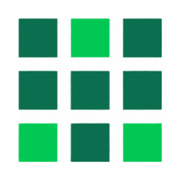
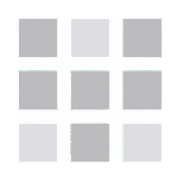
Black and gray redesign

diff --git a/style.css b/style.css
@@ -1,85 +1,319 @@
-:root{--emerald:#0B6E4F;--green:#00C853;--char:#1C1F22;--deep:#121417;--slate:#B8BDC2;--ink:#1C1F22;--muted:#4a5056;--bg-alt:#EEF5F1;--w:#fff}
+:root{
+  --bg:#0A0A0B;
+  --bg-elev:#111214;
+  --bg-card:rgba(255,255,255,0.03);
+  --bg-card-hover:rgba(255,255,255,0.055);
+  --line:rgba(255,255,255,0.10);
+  --line-strong:rgba(255,255,255,0.18);
+  --silver:#C8CDD2;
+  --silver-bright:#E8EBEE;
+  --white:#F5F6F7;
+  --muted:#8A9098;
+  --glow:rgba(232,235,238,0.45);
+  --glow-soft:rgba(232,235,238,0.12);
+}
 *{box-sizing:border-box}
 html{scroll-behavior:smooth}
-body{margin:0;font-family:Inter,Arial,Helvetica,sans-serif;color:var(--ink);background:var(--w);line-height:1.6;font-size:17px}
-h1,h2,h3{font-family:Montserrat,Arial,sans-serif;line-height:1.2;margin:0 0 .5em}
-a{color:var(--emerald)}
-a:focus-visible,.btn:focus-visible{outline:3px solid var(--green);outline-offset:3px}
+body{
+  margin:0;
+  font-family:Inter,system-ui,Arial,Helvetica,sans-serif;
+  color:var(--silver);
+  background:var(--bg);
+  line-height:1.65;
+  font-size:17px;
+  -webkit-font-smoothing:antialiased;
+}
+h1,h2,h3{
+  font-family:"Space Grotesk",Inter,system-ui,sans-serif;
+  line-height:1.15;
+  margin:0 0 .5em;
+  color:var(--white);
+  letter-spacing:-0.01em;
+}
+a{color:var(--silver-bright);text-decoration-thickness:1px;text-underline-offset:3px}
+a:hover{color:var(--white)}
+a:focus-visible,.btn:focus-visible{
+  outline:2px solid var(--silver-bright);
+  outline-offset:3px;
+}
 .wrap{max-width:1120px;margin:0 auto;padding:0 24px}
-.skip{position:absolute;left:-999px;top:0;background:var(--emerald);color:#fff;padding:8px 14px;z-index:10}
+.skip{
+  position:absolute;left:-999px;top:0;
+  background:var(--white);color:var(--bg);
+  padding:8px 14px;z-index:20;font-weight:600;
+}
 .skip:focus{left:8px;top:8px}
+
+/* subtle LED grid over whole page */
+body::before{
+  content:"";
+  position:fixed;inset:0;pointer-events:none;z-index:0;
+  background-image:
+    linear-gradient(rgba(255,255,255,0.025) 1px, transparent 1px),
+    linear-gradient(90deg, rgba(255,255,255,0.025) 1px, transparent 1px);
+  background-size:48px 48px;
+  mask-image:radial-gradient(ellipse 80% 60% at 50% 0%, #000 20%, transparent 75%);
+  -webkit-mask-image:radial-gradient(ellipse 80% 60% at 50% 0%, #000 20%, transparent 75%);
+  opacity:.9;
+}
+main,header,footer{position:relative;z-index:1}
+
 /* header */
-.site-header{background:#fff;border-bottom:4px solid var(--emerald);position:sticky;top:0;z-index:5}
-.header-inner{display:flex;align-items:center;justify-content:space-between;gap:16px;padding-top:12px;padding-bottom:12px}
-.brand img{display:block;height:48px;width:auto}
+.site-header{
+  background:rgba(10,10,11,0.82);
+  backdrop-filter:blur(14px) saturate(1.2);
+  -webkit-backdrop-filter:blur(14px) saturate(1.2);
+  border-bottom:1px solid var(--line);
+  position:sticky;top:0;z-index:5;
+}
+.header-inner{
+  display:flex;align-items:center;justify-content:space-between;
+  gap:16px;padding-top:14px;padding-bottom:14px;
+}
+.brand img{
+  display:block;height:46px;width:auto;
+  filter:drop-shadow(0 0 10px rgba(232,235,238,0.18));
+}
 nav ul{list-style:none;display:flex;gap:22px;margin:0;padding:0;align-items:center}
-nav a{text-decoration:none;color:var(--char);font-family:Montserrat,sans-serif;font-weight:700;font-size:.85rem;letter-spacing:.08em;text-transform:uppercase}
-nav a:hover{color:var(--emerald)}
-.nav-cta{background:var(--emerald);color:#fff!important;padding:9px 16px;border-radius:4px}
-.nav-cta:hover{background:#09583f}
+nav a{
+  text-decoration:none;color:var(--silver);
+  font-family:"Space Grotesk",Inter,sans-serif;
+  font-weight:600;font-size:.8rem;letter-spacing:.12em;text-transform:uppercase;
+}
+nav a:hover{color:var(--white)}
+.nav-cta{
+  background:transparent;
+  color:var(--white)!important;
+  padding:9px 16px;border-radius:999px;
+  border:1px solid var(--line-strong);
+  box-shadow:0 0 0 0 transparent, inset 0 0 20px var(--glow-soft);
+}
+.nav-cta:hover{
+  border-color:var(--silver-bright);
+  box-shadow:0 0 18px var(--glow-soft), inset 0 0 24px var(--glow-soft);
+  color:var(--white)!important;
+}
+
 /* hero */
-.hero{position:relative;overflow:hidden;background:var(--char);color:#fff;padding:84px 0 92px}
+.hero{
+  position:relative;overflow:hidden;
+  background:
+    radial-gradient(ellipse 70% 55% at 70% 40%, rgba(200,205,210,0.10), transparent 60%),
+    radial-gradient(ellipse 50% 40% at 15% 80%, rgba(255,255,255,0.05), transparent 55%),
+    linear-gradient(180deg, #0E0F11 0%, var(--bg) 100%);
+  color:var(--white);
+  padding:96px 0 100px;
+  border-bottom:1px solid var(--line);
+}
+.hero::before{
+  content:"";position:absolute;inset:0;pointer-events:none;z-index:0;
+  background:repeating-linear-gradient(
+    0deg,
+    transparent 0 3px,
+    rgba(255,255,255,0.015) 3px 4px
+  );
+  opacity:.7;
+}
 .hero-inner{position:relative;z-index:1}
-.eyebrow{font-family:Montserrat,sans-serif;font-weight:700;letter-spacing:.25em;text-transform:uppercase;color:var(--green);font-size:.85rem;margin:0 0 14px}
-.hero h1{font-size:clamp(2.1rem,5.2vw,3.6rem);font-weight:800;text-transform:uppercase;max-width:14ch}
-.hero h1 span{color:var(--green);white-space:nowrap}
-.lead{max-width:62ch;font-size:1.1rem;color:#e6e9eb}
-.lead strong{color:#fff}.lead .hl{color:var(--green)}
-.tags{list-style:none;display:flex;flex-wrap:wrap;gap:10px;padding:0;margin:26px 0 30px}
-.tags li{font-family:Montserrat,sans-serif;font-weight:700;font-size:.72rem;letter-spacing:.14em;text-transform:uppercase;border:2px solid var(--green);color:#fff;padding:7px 12px;border-radius:3px}
-.tags li.solid{background:var(--emerald);border-color:var(--emerald)}
+.eyebrow{
+  font-family:"Space Grotesk",Inter,sans-serif;
+  font-weight:600;letter-spacing:.28em;text-transform:uppercase;
+  color:var(--silver);font-size:.78rem;margin:0 0 18px;
+}
+.hero h1{
+  font-size:clamp(2.2rem,5.4vw,3.75rem);
+  font-weight:700;text-transform:uppercase;
+  max-width:14ch;
+  text-shadow:0 0 40px rgba(232,235,238,0.18);
+}
+.hero h1 span{
+  color:var(--silver-bright);
+  white-space:nowrap;
+  background:linear-gradient(180deg,#fff 0%, #B8BEC6 100%);
+  -webkit-background-clip:text;background-clip:text;
+  color:transparent;
+  filter:drop-shadow(0 0 18px rgba(232,235,238,0.35));
+}
+.lead{max-width:62ch;font-size:1.08rem;color:var(--silver)}
+.lead strong{color:var(--white)}.lead .hl{color:var(--silver-bright)}
+.tags{list-style:none;display:flex;flex-wrap:wrap;gap:10px;padding:0;margin:28px 0 32px}
+.tags li{
+  font-family:"Space Grotesk",Inter,sans-serif;
+  font-weight:600;font-size:.7rem;letter-spacing:.16em;text-transform:uppercase;
+  border:1px solid var(--line-strong);color:var(--silver-bright);
+  padding:8px 13px;border-radius:999px;
+  background:rgba(255,255,255,0.02);
+}
+.tags li.solid{
+  background:rgba(255,255,255,0.08);
+  border-color:rgba(255,255,255,0.28);
+  color:var(--white);
+  box-shadow:0 0 20px var(--glow-soft);
+}
 .hero-actions{display:flex;flex-wrap:wrap;gap:14px}
-.btn{display:inline-block;text-decoration:none;font-family:Montserrat,sans-serif;font-weight:700;padding:14px 22px;border-radius:4px;font-size:.95rem}
-.btn-primary{background:var(--green);color:var(--deep)}
-.btn-primary:hover{background:#2be07a}
-.btn-ghost{border:2px solid #fff;color:#fff}
-.btn-ghost:hover{background:#fff;color:var(--char)}
-.pixels{position:absolute;right:-20px;top:50%;transform:translateY(-50%);width:420px;height:420px;opacity:.55;
-background:repeating-linear-gradient(90deg,transparent 0 40px,var(--char) 40px 48px),repeating-linear-gradient(0deg,transparent 0 40px,var(--char) 40px 48px),linear-gradient(135deg,#0B6E4F 0%,#00C853 45%,#0B6E4F 70%,#1C1F22 100%);
--webkit-mask-image:linear-gradient(90deg,transparent,#000 60%);mask-image:linear-gradient(90deg,transparent,#000 60%)}
+.btn{
+  display:inline-block;text-decoration:none;
+  font-family:"Space Grotesk",Inter,sans-serif;
+  font-weight:600;padding:14px 22px;border-radius:999px;font-size:.92rem;
+  transition:box-shadow .2s ease, background .2s ease, border-color .2s ease, color .2s ease;
+}
+.btn-primary{
+  background:var(--white);color:var(--bg);
+  box-shadow:0 0 0 1px rgba(255,255,255,0.2), 0 0 28px rgba(232,235,238,0.28);
+}
+.btn-primary:hover{
+  background:#fff;
+  box-shadow:0 0 0 1px #fff, 0 0 40px rgba(232,235,238,0.45);
+  color:#000;
+}
+.btn-ghost{
+  border:1px solid var(--line-strong);color:var(--white);
+  background:rgba(255,255,255,0.02);
+}
+.btn-ghost:hover{
+  border-color:var(--silver-bright);
+  background:rgba(255,255,255,0.06);
+  box-shadow:0 0 22px var(--glow-soft);
+}
+/* LED pixel cluster */
+.pixels{
+  position:absolute;right:-30px;top:46%;transform:translateY(-50%);
+  width:480px;height:480px;opacity:.72;pointer-events:none;
+  background:
+    repeating-linear-gradient(90deg, transparent 0 18px, rgba(10,10,11,0.92) 18px 24px),
+    repeating-linear-gradient(0deg, transparent 0 18px, rgba(10,10,11,0.92) 18px 24px),
+    radial-gradient(circle at 28% 28%, rgba(255,255,255,0.75), transparent 28%),
+    radial-gradient(circle at 62% 48%, rgba(220,225,230,0.45), transparent 32%),
+    radial-gradient(circle at 78% 72%, rgba(180,185,190,0.28), transparent 30%),
+    linear-gradient(135deg, #3a3e45 0%, #16181c 38%, #2c3036 68%, #0A0A0B 100%);
+  -webkit-mask-image:radial-gradient(ellipse 70% 70% at 55% 50%, #000 40%, transparent 75%),
+                     linear-gradient(90deg,transparent 0%,#000 40%);
+  mask-image:radial-gradient(ellipse 70% 70% at 55% 50%, #000 40%, transparent 75%),
+             linear-gradient(90deg,transparent 0%,#000 40%);
+  -webkit-mask-composite:source-in;mask-composite:intersect;
+  box-shadow:0 0 60px rgba(232,235,238,0.08), inset 0 0 80px rgba(0,0,0,0.55);
+}
+.pixels::after{
+  content:"";position:absolute;inset:0;
+  background:
+    repeating-linear-gradient(0deg, transparent 0 2px, rgba(255,255,255,0.04) 2px 3px),
+    radial-gradient(circle at 40% 35%, rgba(255,255,255,0.2), transparent 45%);
+  mix-blend-mode:screen;
+}
+
 /* sections */
-.section{padding:72px 0}
-.section.alt{background:var(--bg-alt)}
-.sec-title{font-size:1.15rem;font-weight:800;letter-spacing:.2em;text-transform:uppercase;color:var(--emerald);display:flex;align-items:center;gap:12px;margin-bottom:28px}
-.sec-title::before{content:"";width:14px;height:14px;background:var(--green);flex:none}
-.cards{display:grid;grid-template-columns:repeat(auto-fit,minmax(300px,1fr));gap:22px}
-.card{border-left:5px solid var(--emerald);background:#fff;padding:20px 22px;box-shadow:0 1px 3px rgba(0,0,0,.08);border-radius:0 4px 4px 0}
-.card h3{font-size:1.1rem;color:var(--char)}
+.section{padding:80px 0}
+.section.alt{
+  background:linear-gradient(180deg, var(--bg-elev), #0C0D0F);
+  border-top:1px solid var(--line);
+  border-bottom:1px solid var(--line);
+}
+.sec-title{
+  font-size:1rem;font-weight:600;letter-spacing:.22em;text-transform:uppercase;
+  color:var(--silver-bright);
+  display:flex;align-items:center;gap:14px;margin-bottom:30px;
+}
+.sec-title::before{
+  content:"";width:10px;height:10px;flex:none;
+  background:var(--white);
+  box-shadow:0 0 12px var(--glow), 0 0 2px #fff;
+  border-radius:1px;
+  transform:rotate(45deg);
+}
+.cards{display:grid;grid-template-columns:repeat(auto-fit,minmax(300px,1fr));gap:18px}
+.card{
+  border:1px solid var(--line);
+  background:var(--bg-card);
+  backdrop-filter:blur(8px);
+  -webkit-backdrop-filter:blur(8px);
+  padding:22px 24px;
+  border-radius:14px;
+  box-shadow:inset 0 1px 0 rgba(255,255,255,0.04);
+  transition:border-color .2s ease, background .2s ease, box-shadow .2s ease;
+}
+.card:hover{
+  border-color:var(--line-strong);
+  background:var(--bg-card-hover);
+  box-shadow:0 0 28px var(--glow-soft), inset 0 1px 0 rgba(255,255,255,0.06);
+}
+.card h3{font-size:1.08rem;color:var(--white);margin-bottom:.45em}
 .card p{margin:0;color:var(--muted)}
 .two-col{display:grid;grid-template-columns:1fr 1fr;gap:56px}
 .checks{list-style:none;padding:0;margin:0}
-.checks li{position:relative;padding-left:34px;margin-bottom:18px}
-.checks li::before{content:"";position:absolute;left:0;top:4px;width:18px;height:18px;border:2px solid var(--emerald);background:linear-gradient(var(--green),var(--green)) center/10px 10px no-repeat;border-radius:2px}
+.checks li{position:relative;padding-left:34px;margin-bottom:18px;color:var(--silver)}
+.checks li strong{color:var(--white)}
+.checks li::before{
+  content:"";position:absolute;left:0;top:5px;
+  width:14px;height:14px;
+  border:1px solid var(--silver-bright);
+  background:linear-gradient(135deg, rgba(255,255,255,0.55), rgba(255,255,255,0.05));
+  box-shadow:0 0 10px var(--glow-soft);
+  border-radius:2px;transform:rotate(45deg);
+}
 .chips{list-style:none;display:flex;flex-wrap:wrap;gap:10px;padding:0;margin:0 0 18px}
-.chips li{background:var(--char);color:#fff;font-weight:600;font-size:.9rem;padding:8px 14px;border-radius:3px}
+.chips li{
+  background:rgba(255,255,255,0.04);
+  color:var(--silver-bright);
+  border:1px solid var(--line);
+  font-weight:600;font-size:.88rem;
+  padding:8px 14px;border-radius:999px;
+}
+#serve p{color:var(--muted)}
+
 /* contact */
-.contact{padding:72px 0;background:#fff}
-.cta-box{background:var(--emerald);color:#fff;padding:34px 36px;border-radius:4px;margin-bottom:40px}
-.cta-box h2{font-size:clamp(1.4rem,3vw,2rem)}
-.cta-box p{margin:0;font-size:1.1rem}
+.contact{padding:80px 0;background:var(--bg)}
+.cta-box{
+  background:
+    radial-gradient(ellipse 80% 120% at 0% 50%, rgba(255,255,255,0.08), transparent 55%),
+    linear-gradient(135deg, #1A1C20 0%, #121417 55%, #0E0F11 100%);
+  color:var(--white);
+  padding:36px 38px;
+  border-radius:16px;
+  margin-bottom:40px;
+  border:1px solid var(--line-strong);
+  box-shadow:0 0 40px var(--glow-soft), inset 0 1px 0 rgba(255,255,255,0.08);
+}
+.cta-box h2{font-size:clamp(1.4rem,3vw,2rem);text-shadow:0 0 24px rgba(232,235,238,0.25)}
+.cta-box p{margin:0;font-size:1.08rem;color:var(--silver)}
 .contact-grid{display:grid;grid-template-columns:repeat(3,1fr);gap:32px}
-.contact-grid h3{font-size:.8rem;letter-spacing:.2em;text-transform:uppercase;color:var(--emerald)}
-.contact-grid p,address{margin:0;font-style:normal}
-.ph{border:1px dashed var(--emerald);background:#e9f7ef;padding:0 6px;font-family:ui-monospace,Menlo,monospace;font-size:.92em}
-.site-footer{background:var(--deep);color:var(--slate);padding:26px 0;font-size:.9rem}
+.contact-grid h3{
+  font-size:.75rem;letter-spacing:.22em;text-transform:uppercase;
+  color:var(--muted);margin-bottom:.6em;
+}
+.contact-grid p,address{margin:0;font-style:normal;color:var(--silver)}
+.contact-grid a{color:var(--silver-bright)}
+.ph{
+  border:1px dashed var(--line-strong);
+  background:rgba(255,255,255,0.04);
+  padding:0 6px;
+  font-family:ui-monospace,Menlo,monospace;font-size:.92em;
+}
+.site-footer{
+  background:#070708;
+  color:var(--muted);
+  padding:28px 0;font-size:.88rem;
+  border-top:1px solid var(--line);
+}
 .site-footer p{margin:0}
+
 /* responsive */
 @media (max-width:860px){
- .two-col,.contact-grid{grid-template-columns:1fr;gap:36px}
- .pixels{width:260px;height:260px;opacity:.25}
+  .two-col,.contact-grid{grid-template-columns:1fr;gap:36px}
+  .pixels{width:260px;height:260px;opacity:.3}
 }
 @media (max-width:640px){
- body{font-size:16px}
- .header-inner{flex-direction:column;align-items:flex-start;gap:8px}
- .brand img{height:38px}
- nav ul{gap:14px;flex-wrap:wrap}
- nav a{font-size:.75rem}
- .nav-cta{padding:6px 10px}
- .site-header{position:static}
- .hero{padding:52px 0 60px}
- .pixels{display:none}
- .cards{grid-template-columns:1fr}
- .cta-box{padding:26px 22px}
- .btn{width:100%;text-align:center}
+  body{font-size:16px}
+  .header-inner{flex-direction:column;align-items:flex-start;gap:10px}
+  .brand img{height:36px}
+  nav ul{gap:12px;flex-wrap:wrap}
+  nav a{font-size:.72rem}
+  .nav-cta{padding:7px 12px}
+  .site-header{position:static}
+  .hero{padding:56px 0 64px}
+  .pixels{display:none}
+  .cards{grid-template-columns:1fr}
+  .cta-box{padding:26px 22px}
+  .btn{width:100%;text-align:center}
+  body::before{background-size:36px 36px}
 }
 @media (prefers-reduced-motion:reduce){html{scroll-behavior:auto}}

diff --git a/index.html b/index.html
@@ -6,7 +6,7 @@
 <title>BNNAV LLC | Live Event AV Crew | Phoenix, AZ</title>
 <meta name="description" content="BNNAV LLC is a woman-owned small business in Phoenix, Arizona providing skilled live event AV crew: LED video wall techs, V1 video engineers, Engineer-in-Charge, Resolume playback and LED wall rental with crew. Available US-wide.">
 <link rel="canonical" href="https://bnnav.org/">
-<meta name="theme-color" content="#0B6E4F">
+<meta name="theme-color" content="#0A0A0B">
 <meta property="og:type" content="website">
 <meta property="og:site_name" content="BNNAV LLC">
 <meta property="og:title" content="BNNAV LLC | Live Event AV Crew | Phoenix, AZ">
@@ -26,7 +26,7 @@
 <link rel="apple-touch-icon" href="apple-touch-icon.png">
 <link rel="preconnect" href="https://fonts.googleapis.com">
 <link rel="preconnect" href="https://fonts.gstatic.com" crossorigin>
-<link rel="stylesheet" href="https://fonts.googleapis.com/css2?family=Inter:wght@400;500;600&family=Montserrat:wght@700;800&display=swap">
+<link rel="stylesheet" href="https://fonts.googleapis.com/css2?family=Inter:wght@400;500;600&family=Space+Grotesk:wght@500;600;700&display=swap">
 <link rel="stylesheet" href="style.css">
 <script type="application/ld+json">
 {
